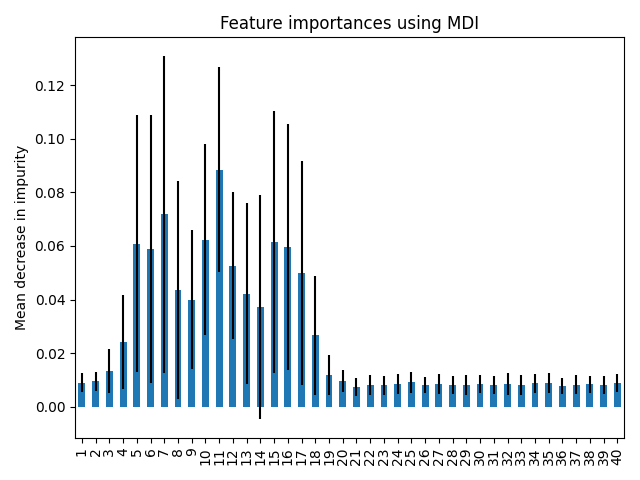
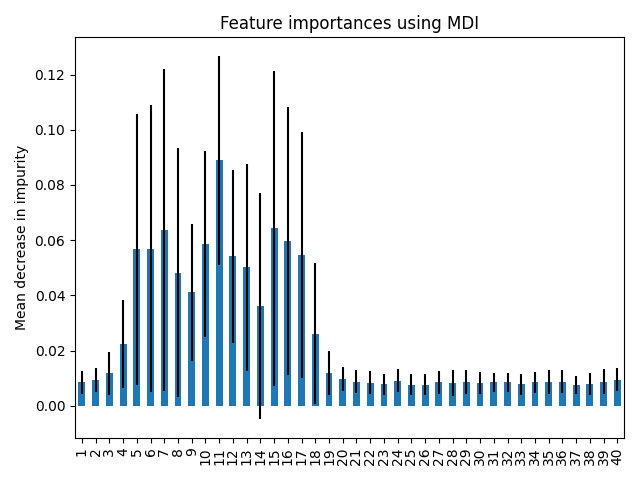
code is sorted out

diff --git a/main.py b/main.py
@@ -1,45 +1,38 @@
+from datetime import datetime as dt
 import pandas as pd
 from sklearn.ensemble import RandomForestClassifier
-from sklearn.metrics import accuracy_score
+from sklearn.metrics import accuracy_score, precision_score, recall_score, f1_score
 from sklearn.model_selection import cross_val_score, train_test_split
 import numpy as np
+from sklearn import metrics
 import matplotlib.pyplot as plt
 
+from CSVWriter import CSVWriter
 from DataCleaner import DataCleaner
+from Logger import Logger
+
+TESTS = [accuracy_score, precision_score, recall_score, f1_score]
+TESTS_WITH_SAMPLE_NAMES = []
+for test in TESTS:
+    TESTS_WITH_SAMPLE_NAMES.append(f"train-{test.__name__}")
+    TESTS_WITH_SAMPLE_NAMES.append(f"val-{test.__name__}")
+    TESTS_WITH_SAMPLE_NAMES.append(f"test-{test.__name__}")
+
+TESTS_WITH_SAMPLE_NAMES.append(f"train-time")
+TESTS_WITH_SAMPLE_NAMES.append(f"val-time")
+TESTS_WITH_SAMPLE_NAMES.append(f"test-time")
+
+CSV_COLUMNS = ["Model", "Total Compile Time",
+               "Total Sample Size", "Compile Time Per Sample"]
+CSV_COLUMNS.extend(TESTS_WITH_SAMPLE_NAMES)
+
+CSV_FORMAT = {CSV_COLUMNS[i]: i for i in range(len(CSV_COLUMNS))}
 
 
-def pipeline():
-    # example with cross validation
-    # Generate mock dataset
-
-    labelFrame, features = DataCleaner().getAttributesAndFeatures()
-    # print(features.shape)
-    # print(labelFrame.shape)
-    # print(labelFrame.head())
-
-    X_train, X_test, y_train, y_test = train_test_split(features, labelFrame, test_size=0.2, random_state=42)
-    y_train = np.ravel(y_train)
-    y_test = np.ravel(y_test)
-
-    # print(X_train.shape)
-    # print(X_test.shape)
-    # print(y_train.shape)
-    # print(y_test.shape)
-
-    # Train random forest classifier
-    rf = RandomForestClassifier(n_estimators=100, random_state=42)
-    rf.fit(X_train, y_train)
-
-    # Predict on testing set
-    y_pred = rf.predict(X_test)
-
-    # Evaluate accuracy
-    accuracy = accuracy_score(y_test, y_pred)
-    print("Accuracy:", accuracy)
-
+def createFeatureImportancePlot(model, features):
     # plot the feature importance to file
-    importances = rf.feature_importances_
-    std = np.std([tree.feature_importances_ for tree in rf.estimators_], axis=0)
+    importances = model.feature_importances_
+    std = np.std([tree.feature_importances_ for tree in model.estimators_], axis=0)
     featureslist = features.columns.values.tolist()
     forest_importances = pd.Series(importances, index=featureslist)
     fig, ax = plt.subplots()
@@ -49,6 +42,143 @@ def pipeline():
     fig.tight_layout()
 
     plt.savefig('featureImportancePlot.png')
+
+
+def buildModel(features: pd.DataFrame, answers: pd.DataFrame, model):
+    # from tutorial: https://machinelearningmastery.com/calculate-feature-importance-with-python/
+
+    # fit the model
+    model.fit(features, answers)
+
+    return model
+
+
+def pipeline():
+    logger = Logger(f"Models-Scores-allModels-nobk-macro-concat-ECG.txt")
+    csvWriter = CSVWriter(f"Models-Scores-allModels-nobk-macro-concat-ECG.csv", CSV_COLUMNS)
+
+    answers, features = DataCleaner().getAttributesAndFeatures()
+    # print(features.shape)
+    # print(labelFrame.shape)
+    # print(labelFrame.head())
+
+    # 20 / 20 / 60
+    X_train, X_test, Y_train, Y_test = train_test_split(features, answers, test_size=0.4, random_state=42)
+    X_val, X_test, Y_val, Y_test = train_test_split(X_test, Y_test, test_size=0.5, random_state=42)
+
+    # X_train, X_test, y_train, y_test = train_test_split(features, answers, test_size=0.2, random_state=42)
+    Y_train = np.ravel(Y_train)
+    Y_test = np.ravel(Y_test)
+    Y_val = np.ravel(Y_val)
+
+    # print(X_train.shape)
+    # print(X_test.shape)
+    # print(y_train.shape)
+    # print(y_test.shape)
+
+    rf = RandomForestClassifier(n_estimators=100, random_state=42)
+
+    # # Train random forest classifier
+    # rf = RandomForestClassifier(n_estimators=100, random_state=42)
+    # rf.fit(X_train, Y_train)
+    #
+    # # Predict on testing set
+    # Y_pred = rf.predict(X_test)
+    #
+    # # Evaluate accuracy
+    # accuracy = accuracy_score(Y_test, Y_pred)
+    # print("Accuracy:", accuracy)
+
+    rf = RandomForestClassifier(n_estimators=100, random_state=42)
+    classifiers = [rf]
+
+    classifierNames = [
+        "Random Forest",
+    ]
+
+    for i, classifier in enumerate(classifiers):
+        model_name = 'model-' + \
+                     f"{classifierNames[i]}-" + f"" + '.model'
+        modelCompileTime = (dt.now() - dt.now())
+
+        # model = ModelSaver[StackingClassifier]().readModel(model_name)
+        model = None
+
+        logger.log(f"Building Model on: {classifierNames[i]}")
+
+        startTime = dt.now()
+        model = buildModel(X_train, Y_train, classifier)
+        modelCompileTime = (dt.now() - startTime)
+        logger.log(
+            f"Time elapsed: (hh:mm:ss:ms) {modelCompileTime}")
+
+        logger.log(f"Saving Model as: {model_name}")
+        startTime = dt.now()
+        logger.log(
+            f"Time elapsed: (hh:mm:ss:ms) {dt.now() - startTime}")
+
+        row = [" "] * len(CSV_COLUMNS)
+        row[CSV_FORMAT["Model"]] = classifierNames[i]
+        row[CSV_FORMAT["Total Compile Time"]] = modelCompileTime
+        row[CSV_FORMAT["Total Sample Size"]] = len(X_train.index)
+        row[CSV_FORMAT["Compile Time Per Sample"]
+        ] = modelCompileTime.total_seconds() / len(X_train.index)
+
+        logger.log(f"Possible tests:", metrics.SCORERS.keys())
+
+        logger.log("Testing model on Train")
+        startTime = dt.now()
+        y_pred = model.predict(X_train)
+        timeElapsed = dt.now() - startTime
+        logger.log(f"Time elapsed: (hh:mm:ss:ms) {timeElapsed}")
+        row[CSV_FORMAT[f"train-time"]] = timeElapsed.total_seconds() / \
+                                         len(X_train.index)
+
+        for test_type in TESTS:
+            res = None
+            if (test_type.__name__ == accuracy_score.__name__):
+                res = test_type(Y_train, y_pred)
+            else:
+                res = test_type(Y_train, y_pred, average='macro')
+            logger.log(f"train-{test_type.__name__}:", res)
+            row[CSV_FORMAT[f"train-{test_type.__name__}"]] = res
+
+        logger.log("Testing model on val")
+        startTime = dt.now()
+        y_pred = model.predict(X_val)
+        timeElapsed = dt.now() - startTime
+        logger.log(f"Time elapsed: (hh:mm:ss:ms) {timeElapsed}")
+        row[CSV_FORMAT[f"val-time"]] = timeElapsed.total_seconds() / \
+                                       len(X_val.index)
+        for test_type in TESTS:
+            res = None
+            if (test_type.__name__ == accuracy_score.__name__):
+                res = test_type(Y_val, y_pred)
+            else:
+                res = test_type(Y_val, y_pred, average='macro')
+            logger.log(f"val-{test_type.__name__}:", res)
+            row[CSV_FORMAT[f"val-{test_type.__name__}"]] = res
+
+        logger.log("Testing model on test")
+        startTime = dt.now()
+        y_pred = model.predict(X_test)
+        timeElapsed = dt.now() - startTime
+        logger.log(f"Time elapsed: (hh:mm:ss:ms) {timeElapsed}")
+        row[CSV_FORMAT[f"test-time"]] = timeElapsed.total_seconds() / \
+                                        len(X_test.index)
+        for test_type in TESTS:
+            res = None
+            if (test_type.__name__ == accuracy_score.__name__):
+                res = test_type(Y_test, y_pred)
+            else:
+                res = test_type(Y_test, y_pred, average='macro')
+            logger.log(f"test-{test_type.__name__}:", res)
+            row[CSV_FORMAT[f"test-{test_type.__name__}"]] = res
+
+        csvWriter.addRow(row)
+
+    createFeatureImportancePlot(rf, features)
+
 
 if __name__ == '__main__':
     pipeline()

diff --git a/DataCleaner.py b/DataCleaner.py
@@ -38,17 +38,17 @@ class DataCleaner:
         featuresFrame = dataframe.iloc[:, :40]  # Select the rest of the columns for attributes
         return labelFrame, featuresFrame
 
-    def encodeDataToNumerical(self, dataframe: pd.DataFrame) -> pd.DataFrame:
-
-        labelsToLoop = dataframe.columns
-        le = LabelEncoder()
-
-        for label in labelsToLoop:
-            encodedColumnContents = le.fit_transform(dataframe[label])
-            dataframe.drop(label, axis=1, inplace=True)
-            dataframe[label] = encodedColumnContents
-
-        return dataframe
+    # def encodeDataToNumerical(self, dataframe: pd.DataFrame) -> pd.DataFrame:
+    #
+    #     labelsToLoop = dataframe.columns
+    #     le = LabelEncoder()
+    #
+    #     for label in labelsToLoop:
+    #         encodedColumnContents = le.fit_transform(dataframe[label])
+    #         dataframe.drop(label, axis=1, inplace=True)
+    #         dataframe[label] = encodedColumnContents
+    #
+    #     return dataframe
 
 # if __name__ == "__main__":
 #     # pd.set_option('display.max_columns', 50)

diff --git a/Helper.py b/Helper.py
@@ -1,0 +1,35 @@
+from typing import List
+import pandas as pd
+import datetime
+from os import path
+from os import makedirs
+
+
+class Helper:
+
+    @classmethod
+    def printDf(self, df: pd.DataFrame, rows: int):
+        print(df.head(rows))
+
+    @classmethod
+    def quickDfStat(self, df: pd.DataFrame):
+        self.printDf(df, 5)
+        print(df.shape)
+
+    @classmethod
+    def quickDfArrStat(self, dfs: List[pd.DataFrame]):
+        for df in dfs:
+            self.printDf(df, 5)
+            print(df.shape)
+
+    @classmethod
+    def convertToFormattedTime(self, seconds: int) -> str:
+        return str(datetime.timedelta(seconds=seconds))
+
+    @classmethod
+    def convertToFormattedTime(self, seconds: int) -> str:
+        return str(datetime.timedelta(seconds=seconds))
+
+    @classmethod
+    def createPath(self, pathArgs):
+        makedirs(path.join(pathArgs), exist_ok=True)

diff --git a/Logger.py b/Logger.py
@@ -1,0 +1,25 @@
+from datetime import datetime
+import os.path as path
+import string
+from typing import Tuple
+import numpy as np
+import pandas as pd
+from Helper import Helper
+
+OUTPUT_FOLDER_PATH = path.join("Outputs", "Output")
+
+
+class Logger:
+    def __init__(self, name: string):
+        self.name = name
+        Helper().createPath(OUTPUT_FOLDER_PATH)
+        timeLog = datetime.now().strftime(r'%Y-%m-%d_%H-%M-%S')
+        self.log("### " + timeLog + " ###")
+
+    def log(self, *args):
+        with open(path.join(OUTPUT_FOLDER_PATH, self.name), "a+") as file:
+            for elem in args:
+                print(str(elem) + " ", end='')
+                file.write(str(elem) + " ")
+            file.write("\n")
+            print()

diff --git a/CSVWriter.py b/CSVWriter.py
@@ -1,0 +1,22 @@
+from csv import writer
+import os.path as path
+import string
+from typing import List
+from Helper import Helper
+
+OUTPUT_FOLDER_PATH = path.join("Outputs", "Output")
+
+
+class CSVWriter:
+    def __init__(self, name: string, columns: List[str]):
+        self.name = name
+        self.columns = columns
+        Helper().createPath(OUTPUT_FOLDER_PATH)
+        with open(path.join(OUTPUT_FOLDER_PATH, self.name), "a+", newline='') as file:
+            writerObj = writer(file)
+            writerObj.writerow(columns)
+
+    def addRow(self, row: list):
+        with open(path.join(OUTPUT_FOLDER_PATH, self.name), "a+", newline='') as file:
+            writerObj = writer(file)
+            writerObj.writerow(row)
